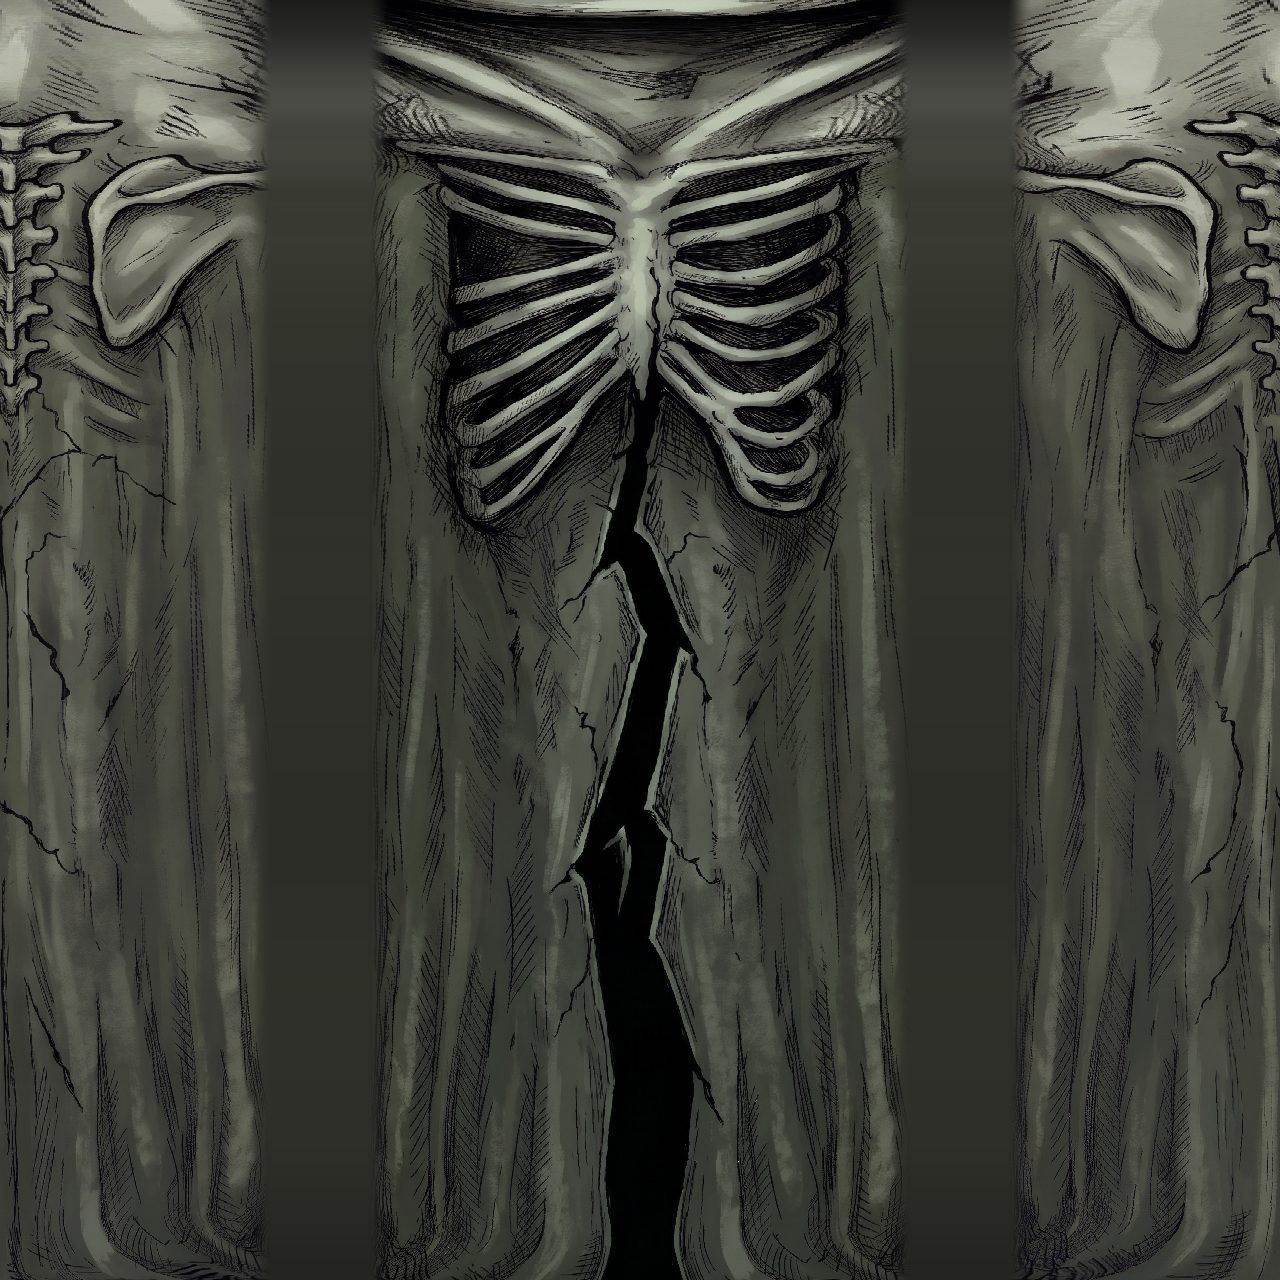
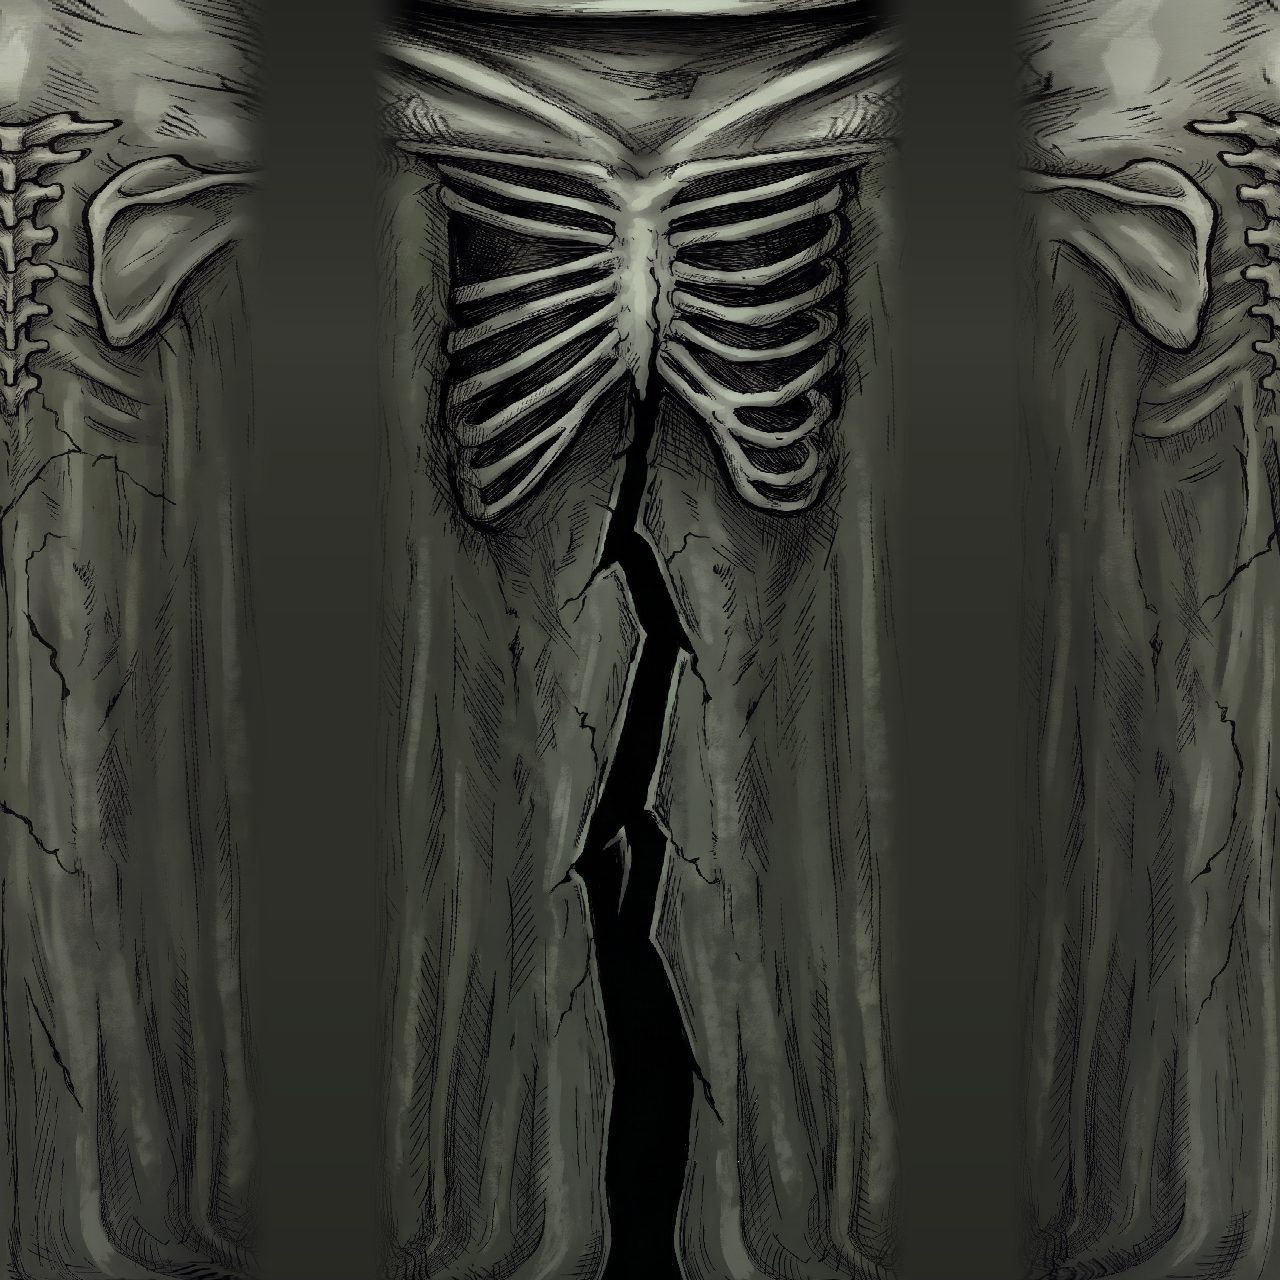
Gazer: painted mouth, matte skin, repainted eye whites
Claude-Session: https://claude.ai/code/session_01Hp3PPRWzBxDPqMYTGtr5h7

diff --git a/src/horror/creatureGazer.js b/src/horror/creatureGazer.js
@@ -5,7 +5,7 @@ import { mergeGeometries } from 'three/addons/utils/BufferGeometryUtils.js';
 import { CELL } from '../logic/horrorGrid.js';
 import { CreatureBase, EYE_GLOW, damp, lookYaw, wrapAngle } from './creatureBase.js';
 import { TAU, clamp, lerp, sampleKeys, surface } from './creatureGeometry.js';
-import { disc, shellHead, throat } from './creatureShell.js';
+import { disc, shellHead, throat, warp } from './creatureShell.js';
 
 const bump = (d, r) => Math.exp(-(d * d) / (r * r));
 
@@ -13,11 +13,11 @@ const bump = (d, r) => Math.exp(-(d * d) / (r * r));
 const HEAD_H = 1.05;
 const CHIN_Y = 1.65; // 턱 끝 높이
 const PIVOT = 0.3; // 머리 받침점 (턱에서 잰 높이). 잡히는 장면에서 눈과 입이 함께 화면에 들어온다
-const MOUTH = { y: 0.277, w: 0.56, x: 0.128, drop: 0.13 }; // 그림 속 까만 입안을 가르는 선의 높이, 입꼬리 각도와 반폭, 쫓을 때 내려가는 턱
+const MOUTH = { y: 0.277, w: 0.56, x: 0.122, drop: 0.1 }; // 그림 속 까만 입안을 가르는 선의 높이, 입꼬리 각도와 반폭, 쫓을 때 내려가는 턱
 const EYE = { x: 0.14, y: 0.685, r: 0.056, iris: 0.034 };
 const NOSE = { y: 0.45, top: 0.71 };
 const HEAD_KEYS = [ // [높이, 반폭, 반두께, 앞뒤 치우침]
-  [HEAD_H, 0.02, 0.02, -0.03], [0.977, 0.184, 0.19, -0.03], [0.908, 0.238, 0.25, -0.03], [0.838, 0.265, 0.28, -0.03], [0.768, 0.275, 0.29, -0.03],
+  [HEAD_H, 0.01, 0.01, -0.03], [1.046, 0.05, 0.055, -0.03], [1.035, 0.09, 0.095, -0.03], [1.015, 0.13, 0.135, -0.03], [0.977, 0.184, 0.19, -0.03], [0.908, 0.238, 0.25, -0.03], [0.838, 0.265, 0.28, -0.03], [0.768, 0.275, 0.29, -0.03],
   [0.698, 0.276, 0.285, -0.03], [0.628, 0.271, 0.275, -0.025], [0.559, 0.28, 0.265, -0.02], [0.489, 0.253, 0.24, -0.01], [0.419, 0.228, 0.215, 0],
   [0.349, 0.212, 0.195, 0.01], [0.279, 0.202, 0.18, 0.02], [0.209, 0.187, 0.16, 0.03], [0.14, 0.157, 0.135, 0.04], [0.07, 0.127, 0.105, 0.045], [0, 0.03, 0.03, 0.05],
 ];
@@ -40,6 +40,9 @@ const SKIN_COLOR = 0x6a6e5e; // 그림이 없을 때 머리 색
 const ROBE_COLOR = 0x3f4238; // 그림이 없을 때 몸 색
 const WHITE_COLOR = 0xdfe6c4; // 그림이 없을 때 흰자 색
 const RING_COLOR = 0x0a0a08; // 그림이 없을 때 눈동자 색
+const TINT = 0x8c9a92; // 따뜻한 손전등 아래서도 그림의 회록색이 남게 붉은빛을 뺀다
+const HEAD_TINT = 0x626b66; // 머리 그림은 몸보다 훨씬 밝아서 더 누른다
+const FACE_GLOW = 0.1; // 어둠에서 얼굴이 희미하게 뜨는 세기
 const LIT = new THREE.Color(0xffffff);
 const PLAIN_WHITE = new THREE.Color(WHITE_COLOR);
 const PLAIN_RING = new THREE.Color(RING_COLOR);
@@ -54,7 +57,7 @@ function wrapU(w, front) {
   return 0.5 + Math.sign(w) * u;
 }
 
-const headUv = (p, t, w) => [wrapU(w, FRONT_HEAD), p.y / HEAD_H];
+const headUv = (p, t, u) => [wrapU(warp(u), FRONT_HEAD), p.y / HEAD_H];
 const mouthLine = () => MOUTH.y;
 
 // 코, 눈두덩, 광대, 턱. 옆에서 봐도 얼굴 윤곽이 보이게 한다
@@ -74,7 +77,8 @@ function jawMorph(g) {
   const pos = g.attributes.position;
   const d = new Float32Array(pos.count * 3);
   for (let i = 0; i < pos.count; i++) {
-    const open = (1 - clamp(Math.abs(pos.getX(i)) / MOUTH.x, 0, 1) ** 2) ** 1.5 * clamp((pos.getZ(i) + 0.1) / 0.12, 0, 1);
+    const reach = MOUTH.x + 0.6 * (MOUTH.y - pos.getY(i)); // 입꼬리는 그대로 두고, 아래로 갈수록 턱 전체가 함께 내려간다
+    const open = (1 - clamp(Math.abs(pos.getX(i)) / reach, 0, 1) ** 4) * clamp((pos.getZ(i) + 0.1) / 0.12, 0, 1);
     d[i * 3 + 1] = -MOUTH.drop * open;
     d[i * 3 + 2] = -0.3 * MOUTH.drop * open;
   }
@@ -112,7 +116,7 @@ function eyeGeometries() {
       ry: EYE.r,
       rings: [[0, 1], [0.5, 1], [0.86, 0.96], [1, 0.45]],
       uv: (p) => [0.5 + (side * 0.42 * p.x) / EYE.r, 0.5 + (0.42 * p.y) / EYE.r],
-      depth: (x, y, r) => frontZ(side * EYE.x + x, EYE.y + y) + 0.02 * (1 - r * r) + 0.004,
+      depth: (x, y, r) => frontZ(side * EYE.x + x, EYE.y + y) + 0.007 * (1 - r * r) + 0.002,
     });
     g.translate(side * EYE.x, EYE.y, 0);
     return g;
@@ -122,7 +126,7 @@ function eyeGeometries() {
     ry: EYE.iris,
     rings: [[0, 1], [0.5, 1], [1, 1]],
     uv: (p) => [0.5 + (side * 0.5 * p.x) / EYE.iris, 0.5 + (0.5 * p.y) / EYE.iris],
-    depth: (x, y, r) => frontZ(side * EYE.x + x, EYE.y + y) - frontZ(side * EYE.x, EYE.y) + 0.02 * (1 - (r * EYE.iris / EYE.r) ** 2) + 0.012,
+    depth: (x, y, r) => frontZ(side * EYE.x + x, EYE.y + y) - frontZ(side * EYE.x, EYE.y) + 0.007 * (1 - (r * EYE.iris / EYE.r) ** 2) + 0.006,
   });
   return { white, ring };
 }
@@ -130,8 +134,12 @@ function eyeGeometries() {
 export class GazerModel extends CreatureBase {
   constructor(scene, loader) {
     super(scene, loader);
-    const skin = this.paper('art/horror_gazer_head.jpg', SKIN_COLOR);
-    const robe = this.paper('art/horror_gazer_body.jpg', ROBE_COLOR);
+    const matte = (o) => new THREE.MeshLambertMaterial(o); // 반사가 없어야 그림의 까만 입안과 먹선이 손전등 아래서도 까맣다
+    const skin = this.paper('art/horror_gazer_head.jpg', SKIN_COLOR, HEAD_TINT, matte);
+    skin.emissive = new THREE.Color(0xffffff);
+    skin.emissiveMap = skin.map;
+    this.faceMat = skin;
+    const robe = this.paper('art/horror_gazer_body.jpg', ROBE_COLOR, TINT, matte);
     const glow = (o) => new THREE.MeshBasicMaterial({ ...o, fog: false });
     this.whiteMat = this.paper('art/horror_gazer_white.jpg', WHITE_COLOR, 0xffffff, glow); // 흰자는 어둠에서도 희미하게 뜬다
     this.ringMat = this.paper('art/horror_gazer_iris.jpg', RING_COLOR, 0xffffff, glow);
@@ -145,7 +153,9 @@ export class GazerModel extends CreatureBase {
 
     const shell = shellHead({ keys: HEAD_KEYS, edgeU: mouthLine, edgeL: mouthLine, mouthW: MOUTH.w, relief, uv: headUv, lipShade: 0, rows: 26, segs: 44 });
     const jaw = morphed(shell.jaw, jawMorph(shell.jaw));
-    this.face = this.add(inner, mergeGeometries([morphed(shell.skull), jaw, morphed(throat(0.12, 0.3, -0.03))]), skin, true);
+    const face = mergeGeometries([morphed(shell.skull), jaw, morphed(throat(0.12, 0.3, -0.03))]);
+    face.morphTargetsRelative = true; // 합치면 이 표시가 사라진다
+    this.face = this.add(inner, face, skin, true);
 
     const eyes = eyeGeometries();
     this.add(inner, mergeGeometries(eyes.white(shell.frontZ)), this.whiteMat, false).renderOrder = 1;
@@ -274,7 +284,8 @@ export class GazerModel extends CreatureBase {
   lightEyes(s, dt) {
     const goal = this.frozen ? 1 : EYE_GLOW[s.mode] ?? EYE_GLOW.patrol;
     this.glow += (goal - this.glow) * damp(s.mode === 'chase' || this.frozen ? 9 : 4, dt);
-    const light = 0.3 + 0.7 * this.glow;
+    const light = 0.3 + 0.6 * this.glow;
+    this.faceMat.emissiveIntensity = FACE_GLOW * (0.4 + this.glow);
     this.whiteMat.color.copy(this.whiteMat.map ? LIT : PLAIN_WHITE).multiplyScalar(light);
     this.ringMat.color.copy(this.ringMat.map ? LIT : PLAIN_RING).multiplyScalar(light);
     // 흥분할수록 눈동자가 바늘처럼 작아진다

diff --git a/src/horror/creatureShell.js b/src/horror/creatureShell.js
@@ -4,7 +4,7 @@ import { mergeGeometries } from 'three/addons/utils/BufferGeometryUtils.js';
 import { bone, clamp, knob, lerp, sampleKeys, surface } from './creatureGeometry.js';
 
 const INNER = 0.95; // 안쪽 면이 겉면보다 작은 비율 (입술 두께)
-const warp = (w) => w * (0.4 + (0.6 * Math.abs(w)) / Math.PI); // 얼굴 앞쪽에 그물을 촘촘히 모은다. 코처럼 가는 굴곡도 살아남는다
+export const warp = (w) => w * (0.4 + (0.6 * Math.abs(w)) / Math.PI); // 얼굴 앞쪽에 그물을 촘촘히 모은다. 코처럼 가는 굴곡도 살아남는다
 
 // 머리 그물 만들기.
 // keys: [높이, 반폭, 반두께, 앞뒤 치우침] 위에서 아래로. edgeU, edgeL: 각도 w 에서 윗입술과 아랫입술 높이.

diff --git a/tools/make_gazer_art.py b/tools/make_gazer_art.py
@@ -57,13 +57,14 @@ def wrap(rows_f, rows_b, hw_f, hw_b, rgb_f, rgb_b, cx_f, cx_b, width, front, ins
     u = (np.arange(width) + 0.5) / width
     is_front = np.abs(u - 0.5) < front / 2
     s = np.where(is_front, (u - 0.5) / (front / 2), np.sign(u - 0.5) * (1 - (np.abs(u - 0.5) - front / 2) / (0.5 - front / 2))) * SIDE
-    fade = np.clip((1 - np.abs(s)) / 0.1, 0, 1)[:, None]
+    fade = np.clip((1 - np.abs(s)) / 0.2, 0, 1)[:, None]
     fade = fade * fade * (3 - 2 * fade)
+    shadow = np.where(is_front, 1, 0.68 + 0.32 * np.clip((1 - np.abs(s)) / 0.7, 0, 1))[:, None]  # 뒷면은 옆구리로 갈수록 앞면만큼 어두워진다
     for y, (rf, rb) in enumerate(zip(rows_f, rows_b)):
         xf = (cx_f + s * max(hw_f[rf] - inset, 1)).round().astype(int).clip(0, rgb_f.shape[1] - 1)
         xb = (cx_b - s * max(hw_b[rb] - inset, 1)).round().astype(int).clip(0, rgb_b.shape[1] - 1)
         row = np.where(is_front[:, None], rgb_f[rf, xf], rgb_b[rb, xb]).astype(float)
-        out[y] = row * fade + tone[y] * (1 - fade)
+        out[y] = row * shadow * fade + tone[y] * (1 - fade)
     return out.clip(0, 255).astype('uint8')
 
 
@@ -76,7 +77,7 @@ def side_tone(rgb, rows, hw, cx, inset, gain):
         xl = np.linspace(cx - w * 0.72, cx - w * 0.95, 24).astype(int).clip(0, rgb.shape[1] - 1)
         px = np.vstack([rgb[r, xs], rgb[r, xl]])
         tone[i] = np.percentile(px, 70, axis=0)
-    return np.stack([smooth(tone[:, c], 121) for c in range(3)], -1) * gain
+    return np.stack([smooth(tone[:, c], 601) for c in range(3)], -1) * gain
 
 
 def keys(name, base, rows, hw, m, n):
@@ -100,8 +101,8 @@ m = HEAD_H / (CHIN - top)
 print('head top', top, 'chin', CHIN, 'm per px', round(m, 6))
 rows = np.linspace(top + 4, CHIN - 1, HEAD_PX).astype(int)
 rows_b = np.linspace(top_b + 4, top_b + (CHIN - top) * 0.72, HEAD_PX).astype(int)  # 뒤 그림은 목덜미가 턱보다 위에서 시작한다
-tone = side_tone(front, rows, hw, CX, 16, 0.62)
-head = wrap(rows, rows_b, hw, hw, front, back, CX, CX, HEAD_W, FRONT_HEAD, 14, tone)
+tone = side_tone(front, rows, hw, CX, 16, 0.78)
+head = wrap(rows, rows_b, hw, hw, front, (back * 0.8).astype('uint8'), CX, CX, HEAD_W, FRONT_HEAD, 14, tone)
 Image.fromarray(head).save(f'{OUT}/horror_gazer_head.jpg', quality=84)
 keys('head keys (m above chin, half width)', 0, np.arange(top + 4, CHIN), hw, m, 16)
 
@@ -110,16 +111,12 @@ cx, cy = CX - EYE_DX, EYE_Y
 eye = front[cy - EYE_R:cy + EYE_R, cx - EYE_R:cx + EYE_R].astype(float)
 yy, xx = np.mgrid[-EYE_R:EYE_R, -EYE_R:EYE_R] + 0.5
 r = np.hypot(xx, yy)
-ang = np.arctan2(yy, xx)
-r_in = IRIS_R + 6
-# 눈동자 바로 바깥 고리를 안쪽으로 끌어와 흰자를 채운다
-sx = (EYE_R + np.cos(ang) * r_in).astype(int).clip(0, EYE_R * 2 - 1)
-sy = (EYE_R + np.sin(ang) * r_in).astype(int).clip(0, EYE_R * 2 - 1)
-white = np.where((r < r_in)[..., None], eye[sy, sx], eye)
-white = np.asarray(Image.fromarray(white.astype('uint8')).filter(ImageFilter.GaussianBlur(3))).astype(float)
-near = r < r_in - 6
-white_final = np.where(near[..., None], np.asarray(Image.fromarray(white.astype('uint8')).filter(ImageFilter.GaussianBlur(10))), eye)
-Image.fromarray(white_final.astype('uint8')).resize((256, 256), Image.LANCZOS).save(f'{OUT}/horror_gazer_white.jpg', quality=86)
+r_in = 82
+# 흰자는 눈동자 없이 새로 칠한다: 그림 속 흰자 빛에 위쪽 눈꺼풀 그늘을 얹는다
+band = eye[(r > 70) & (r < 92)]
+pale = np.percentile(band, 80, axis=0)
+shade = (1 - 0.3 * np.clip((yy + EYE_R * 0.1) / -EYE_R, 0, 1) - 0.4 * np.clip(r / EYE_R - 0.62, 0, 1))[..., None]
+Image.fromarray((pale * shade).clip(0, 255).astype('uint8')).resize((256, 256), Image.LANCZOS).save(f'{OUT}/horror_gazer_white.jpg', quality=86)
 iris = front[cy - IRIS_R:cy + IRIS_R, cx - IRIS_R:cx + IRIS_R]
 Image.fromarray(iris).resize((192, 192), Image.LANCZOS).save(f'{OUT}/horror_gazer_iris.jpg', quality=86)
 
